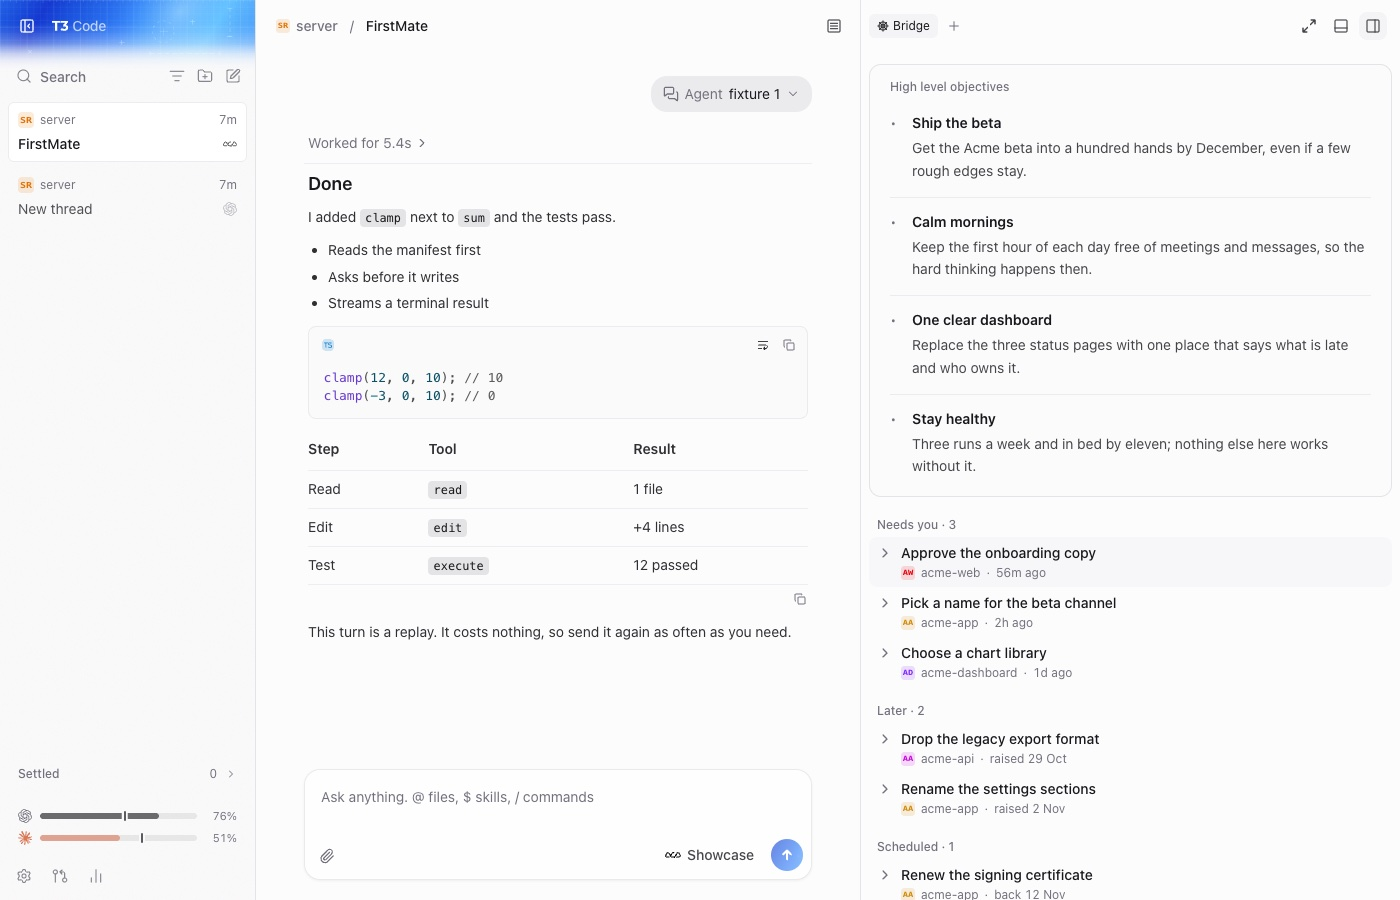
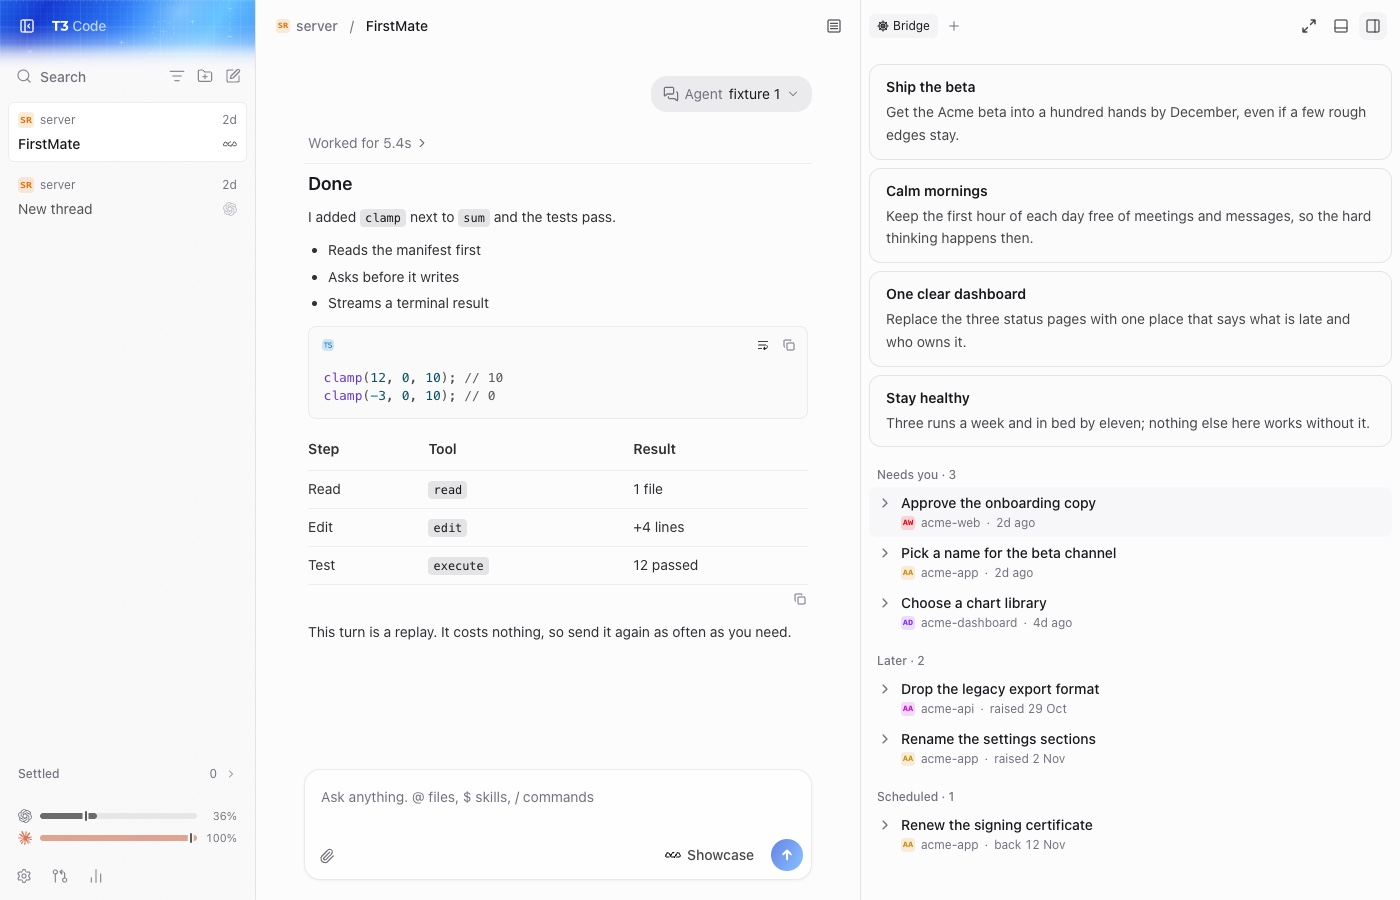
feat(web): Bridge objectives become individual cards
The objectives sat in one "High level objectives" plate with a dotted
list inside. Each objective is now its own card (name over its short
summary, shown in full) in a wrapping grid: one column in a narrow panel,
side by side as it widens, cards in a row sharing a height. The heading
and bullet dot are gone. README prose and both Bridge screenshots are
updated, retaken from the acme fixture data.

Changed region(s): [[0.6143, 0.0933, 0.9829, 1.0], [0.0614, 0.9022, 0.1536, 0.9333]]

diff --git a/apps/web/src/components/needsMe/NeedsMePanel.tsx b/apps/web/src/components/needsMe/NeedsMePanel.tsx
@@ -73,47 +73,39 @@ export function NeedsMePanel(props: { readonly threadRef: ScopedThreadRef }) {
 }
 
 /**
- * Read-only: FirstMate sets them over MCP. One plate across the panel with each objective's name
- * over its whole description; the user sets the measure by resizing the panel itself.
+ * Read-only: FirstMate sets them over MCP, each a name over a summary of about two lines. One card
+ * per objective in a wrapping grid, shown in full; cards in a row share its height.
  */
 function ObjectivesSection(props: {
   readonly objectives: Objectives;
   readonly environmentId: EnvironmentId;
 }) {
   return (
-    <section className="mb-5 rounded-xl border border-border bg-muted/60 px-5 pt-3.5 pb-1">
-      <h3 className="pb-2 text-xs font-medium text-muted-foreground">High level objectives</h3>
-      <ul className="flex flex-col">
-        {splitObjectives(props.objectives.markdown).map((entry) => {
-          const objective = parseObjective(entry);
-          return (
-            <li
-              key={entry}
-              className="grid grid-cols-[14px_minmax(0,1fr)] gap-x-2 border-t border-border/70 py-3.5 first:border-t-0 first:pt-2.5"
-            >
-              <span aria-hidden className="text-sm leading-5 text-muted-foreground">
-                •
-              </span>
-              <div className="min-w-0">
-                {objective.name === undefined ? null : (
-                  <h4 className="mb-1 text-sm leading-5 font-semibold text-foreground">
-                    {objective.name}
-                  </h4>
-                )}
-                {objective.text === "" ? null : (
-                  <ChatMarkdown
-                    text={objective.text}
-                    cwd={undefined}
-                    environmentId={props.environmentId}
-                    className="text-sm leading-relaxed text-foreground/80 [&_p]:my-0"
-                  />
-                )}
-              </div>
-            </li>
-          );
-        })}
-      </ul>
-    </section>
+    <ul
+      aria-label="Objectives"
+      className="mb-5 grid grid-cols-[repeat(auto-fill,minmax(min(280px,100%),1fr))] gap-2"
+    >
+      {splitObjectives(props.objectives.markdown).map((entry) => {
+        const objective = parseObjective(entry);
+        return (
+          <li key={entry} className="min-w-0 rounded-xl border border-border bg-muted/60 px-4 py-3">
+            {objective.name === undefined ? null : (
+              <h3 className="mb-1 text-sm leading-5 font-semibold text-foreground">
+                {objective.name}
+              </h3>
+            )}
+            {objective.text === "" ? null : (
+              <ChatMarkdown
+                text={objective.text}
+                cwd={undefined}
+                environmentId={props.environmentId}
+                className="text-sm leading-relaxed text-foreground/80 [&_p]:my-0"
+              />
+            )}
+          </li>
+        );
+      })}
+    </ul>
   );
 }
 

diff --git a/fork/README.md b/fork/README.md
@@ -330,10 +330,11 @@ sheet like the other right-panel tabs. Internal names (`needs-me` surface kind,
 `components/needsMe/`) keep the old name.
 
 Objectives are a short Markdown list FirstMate pushes (see the records below),
-shown read-only in one "High level objectives" plate across the panel: one
-entry per top-level bullet, its bold lead as the name over the rest of it in
-full. Nothing is clamped or folded; resizing the panel sets the measure. With
-none set the plate is hidden. The tab shows the objectives of the chat's own
+shown read-only as one card per top-level bullet, with no heading: its bold
+lead as the card's name over the rest of it, a summary of about two lines, in
+full. The cards wrap in a grid, one column in a narrow panel and side by side
+as it widens, cards in a row sharing a height. With none set there are no
+cards. The tab shows the objectives of the chat's own
 environment, else of the first connected environment that has some.
 
 Something FirstMate needs from the captain is a decision. "Needs you" lists open
